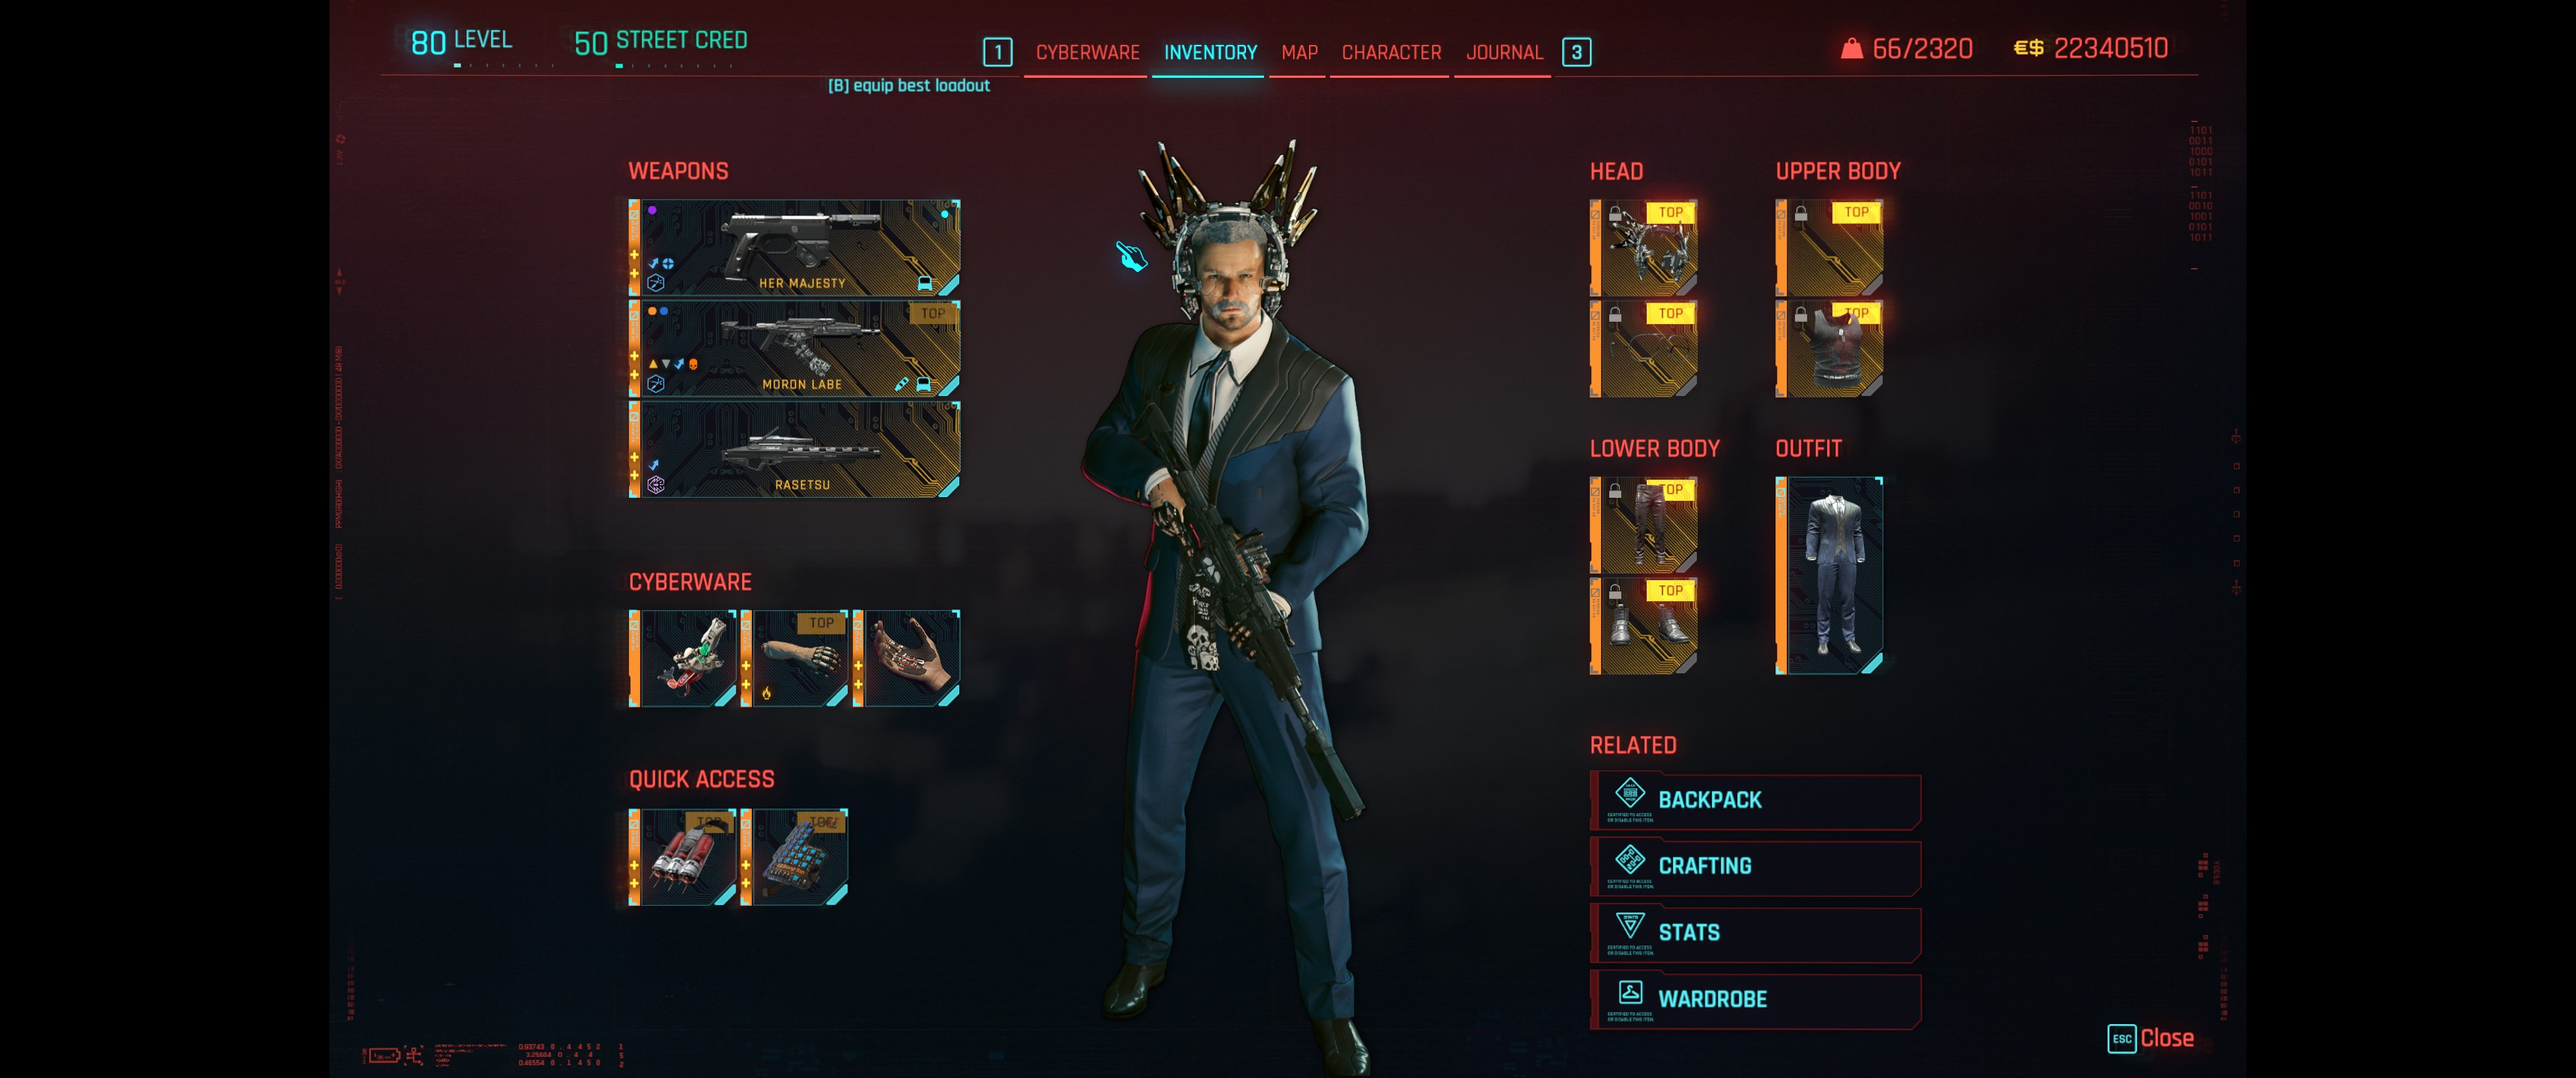
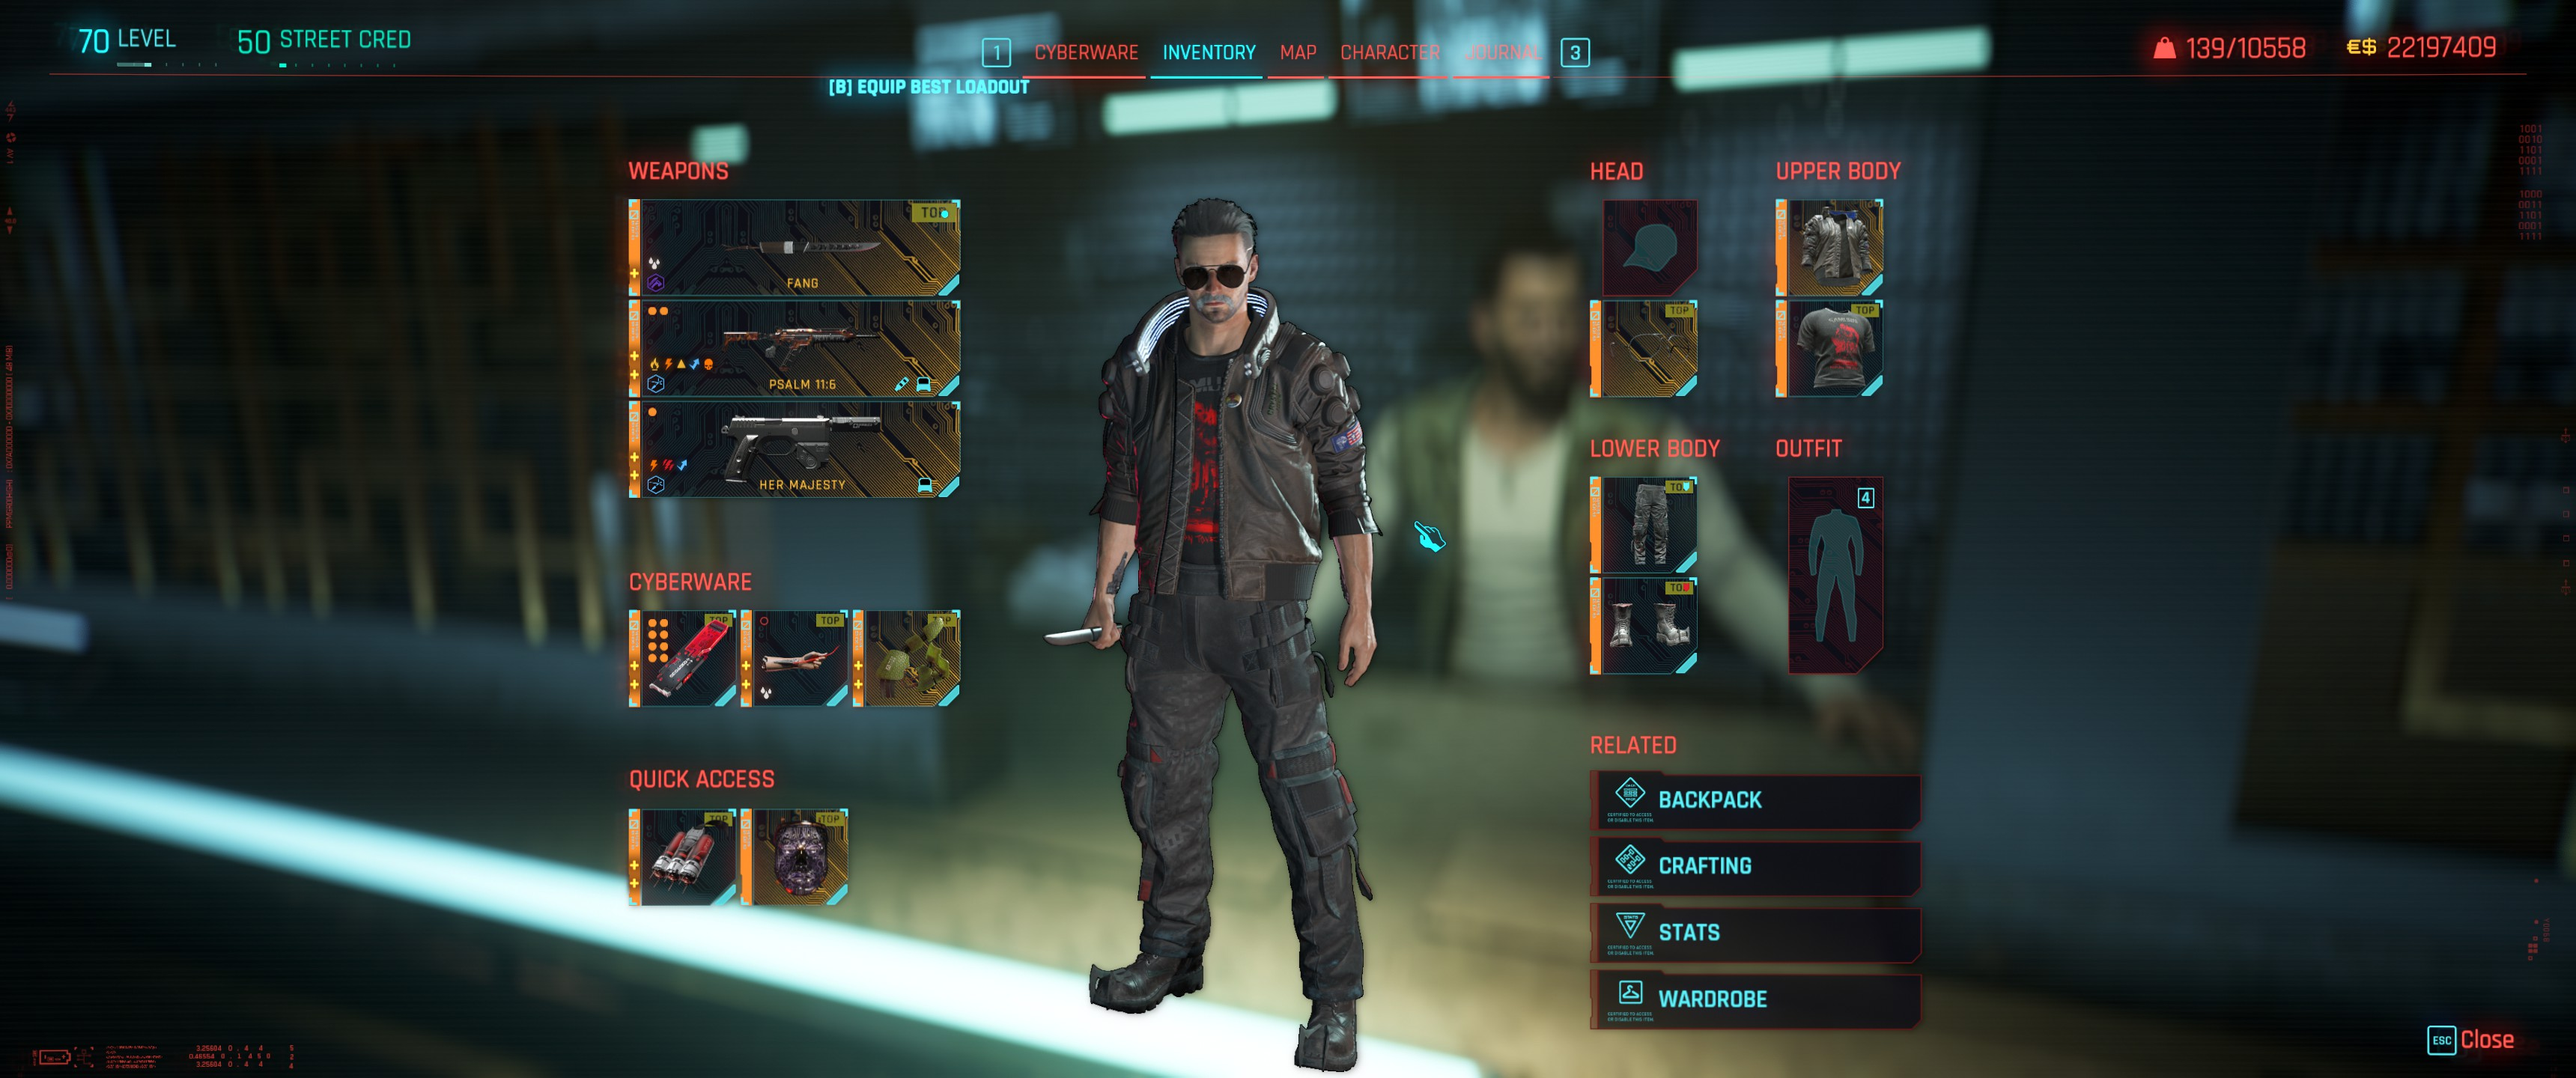
BestInSlot 1.4.0: TOP items sorted first, rebindable keys, gamepad combo
Sorting injected through BackpackDataView.NewPreSortingInjection, so TOP
items float to the top of the grid in the backpack and at vendors under
any sort mode. Both keys are rebindable and a shoulder + D-pad combo does
the same on a controller, with hints in the game's own button bar.
Quickhacks now rank per hack instead of sharing one TOP for all of them.

diff --git a/CyberPunk/BestInSlot/README.md b/CyberPunk/BestInSlot/README.md
@@ -4,19 +4,21 @@
 
 ![cover](screenshots/00-hero.png)
 
-Gold TOP tag on the best item of every category across all item screens. B equips the best loadout; N sells non-TOP weapons and clothes.
+Gold TOP tag on the best item of every category across all item screens, sorted to the top of the grid. One key equips the best loadout, another bulk-sells everything without the tag.
 
 ## ✨ Features
 - Gold TOP tag on every best item
 - Green (+) tag on items better than what you have equipped
+- TOP items sorted to the top of the grid
 - B in the backpack or inventory - equip best loadout
 - N at vendors - sell non-TOP weapons and clothes
-- Options in the Mod Settings menu (optional dependency)
+- Controller: shoulder + D-pad does the same
+- Rebindable keys and options in the Mod Settings menu (optional dependency)
 - English & PT-BR, following the game language
 
 ## 📸 Screenshots
-![screenshot](screenshots/02-backpack-weapons.jpg)
-![screenshot](screenshots/03-backpack-clothes.jpg)
+![screenshot](screenshots/02-backpack-top-first.jpg)
+![screenshot](screenshots/03-vendor-bulk-sell.jpg)
 ![screenshot](screenshots/01-inventory-equip-best.jpg)
 ![screenshot](screenshots/04-mod-settings.jpg)
 
